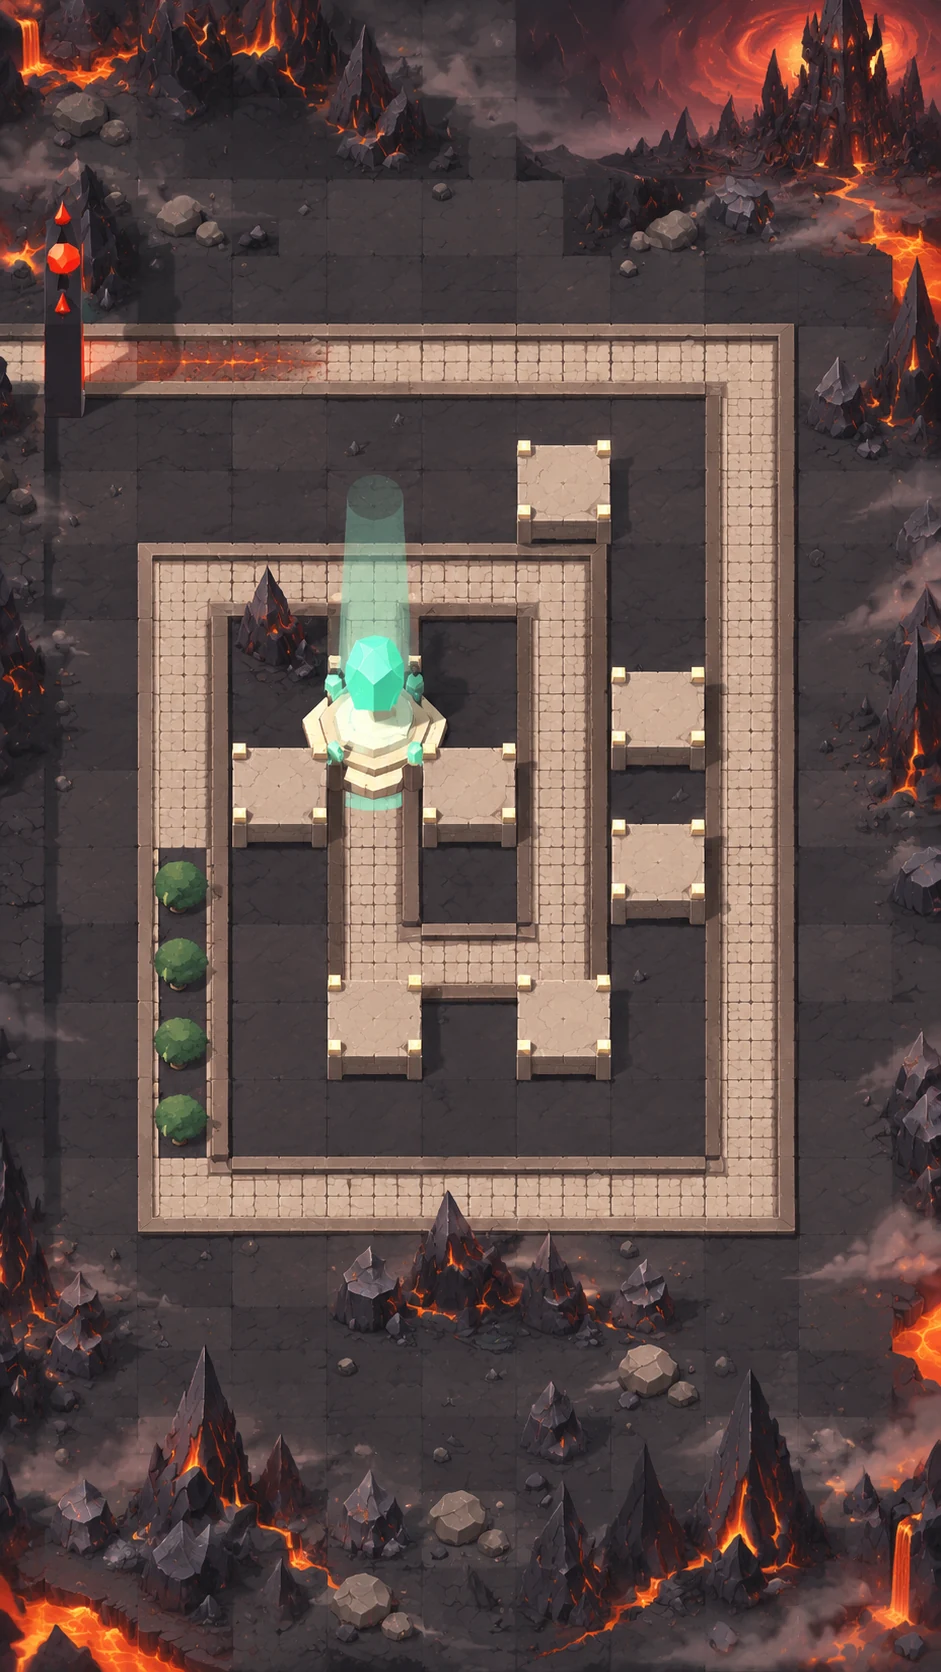
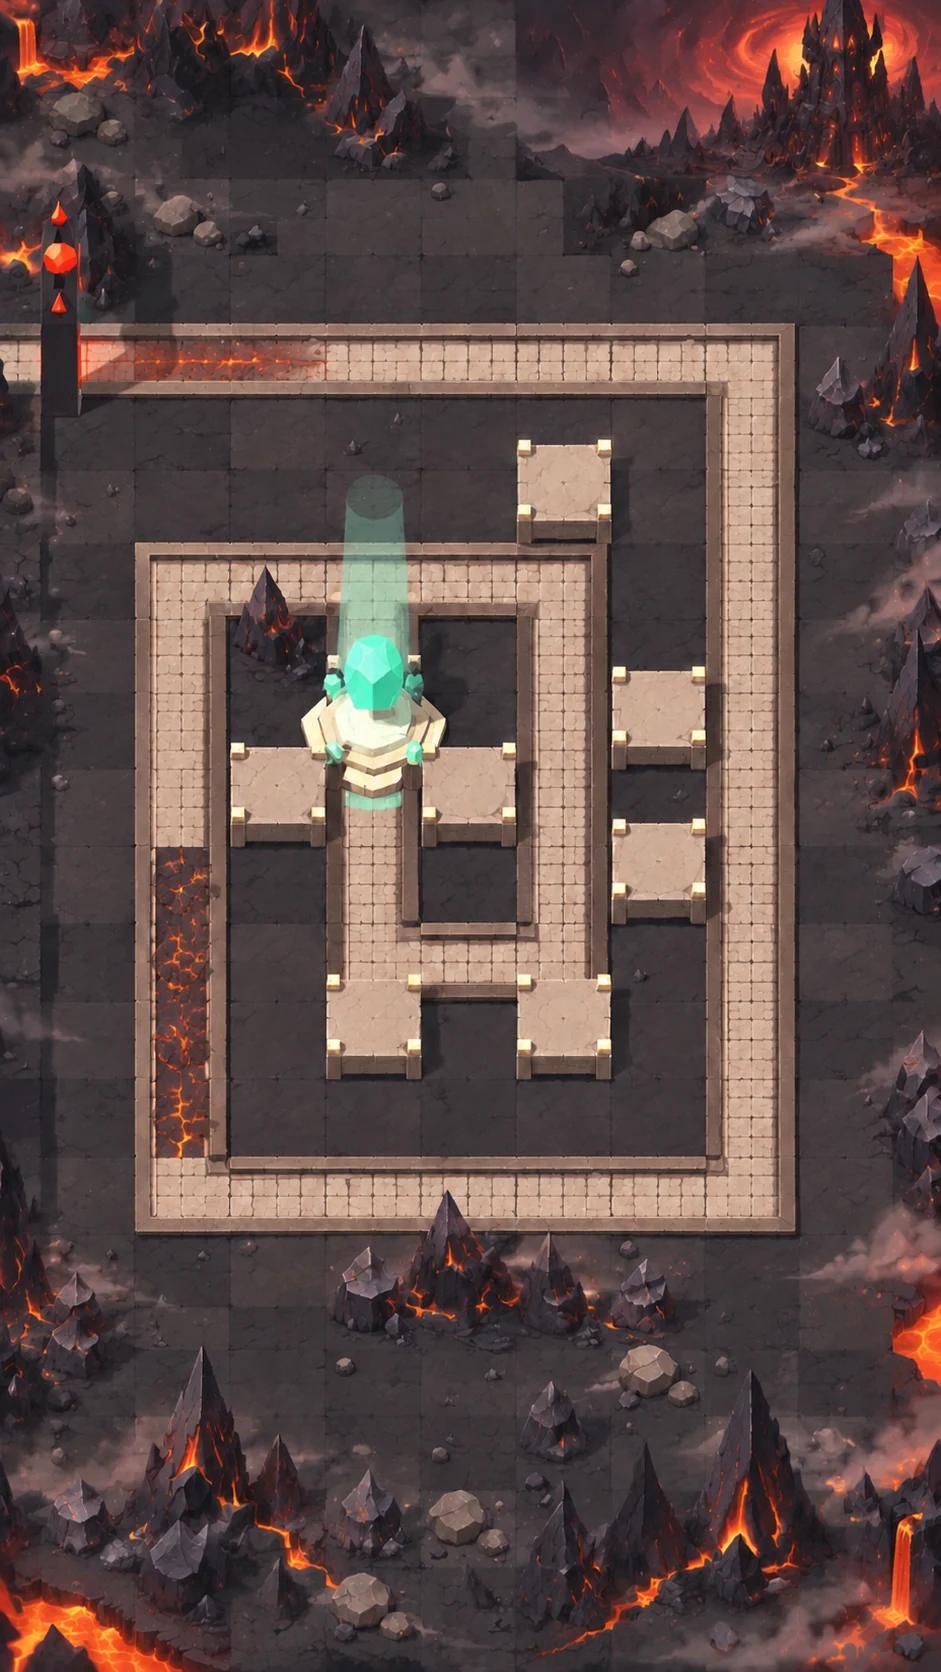
v0.6.10: chapter 7 painting with the slow stretch drawn as lava-crusted road
Claude-Session: https://claude.ai/code/session_01Gn8peP3jwhA6eefzP5AmAn

diff --git a/sw.js b/sw.js
@@ -1,6 +1,6 @@
 // cnation TD service worker: lets the game be added to the home screen and opened offline.
 // Network first, so a new deploy shows up on the next open; the cache is only a fallback. Music is cache-first (large, never changes).
-const VERSION='0.6.9',CACHE='cnation-td-'+VERSION;
+const VERSION='0.6.10',CACHE='cnation-td-'+VERSION;
 const CORE=['./','index.html','manifest.webmanifest','vendor/three-r170.js','js/data.js','js/sim.js','js/models.js','js/game.js','fonts/stylish.woff2','fonts/gowun-dodum.woff2','icons/icon-192.png','icons/icon-512.png','icons/apple-touch-icon.png','icons/favicon-64.png'];
 self.addEventListener('install',e=>{e.waitUntil(caches.open(CACHE).then(c=>c.addAll(CORE)).catch(()=>{}));self.skipWaiting();});
 self.addEventListener('activate',e=>{e.waitUntil(caches.keys().then(keys=>Promise.all(keys.filter(k=>k.startsWith('cnation-td-')&&k!==CACHE).map(k=>caches.delete(k)))).then(()=>self.clients.claim()));});

diff --git a/js/game.js b/js/game.js
@@ -2,7 +2,7 @@
 // All rules live in sim.js; this file only sends commands to it and draws what it reports.
 (function(){
 const THREE=CNATION3D,D=TDData,M=TDModels,{createSim,TERRAIN_NAME}=TDSim;
-const GAME_VERSION='0.6.9',SAVE_KEY='cnation-td-save-v2',LEGACY_KEY='cnation-td-legacy-v1',SLOT_KEY='cnation-td-slots-v1',CLEAR_KEY='cnation-td-clear-v1',SET_KEY='cnation-td-settings-v1',SLOTS=3;
+const GAME_VERSION='0.6.10',SAVE_KEY='cnation-td-save-v2',LEGACY_KEY='cnation-td-legacy-v1',SLOT_KEY='cnation-td-slots-v1',CLEAR_KEY='cnation-td-clear-v1',SET_KEY='cnation-td-settings-v1',SLOTS=3;
 const $=s=>document.querySelector(s),app=$('#app'),viewport=$('#viewport'),glc=$('#gl'),fxc=$('#fx'),ctx=fxc.getContext('2d');
 const ELEV=54*Math.PI/180,SIN=Math.sin(ELEV),COS=Math.cos(ELEV);
 const EL_COLOR={fire:'#ff8a3d',water:'#6fd0ff',ice:'#a9ecff',wind:'#a6f2c6',thunder:'#ffe66b',light:'#fff3b0',dark:'#c7a3ff'};

diff --git a/js/data.js b/js/data.js
@@ -355,7 +355,7 @@ const MAP_ART={
  city:{file:'art/city.webp',rect:[-0.0042,0.0023,0.9958,0.9929],bg:'#a5562e'},
  plain:{file:'art/plain.webp',rect:[-0.0042,-0.0164,1.0058,0.9841],bg:'#cf914a'},
  ruins:{file:'art/ruins.webp',rect:[0.0000,-0.0023,1.0000,0.9982],bg:'#314c24'},
- tower:{file:'art/tower.webp',rect:[-0.0042,-0.0258,0.9958,0.9747],bg:'#433334'}
+ tower:{file:'art/tower.webp',rect:[-0.0042,-0.0258,0.9958,0.9747],bg:'#443334'}
 };
 const TDData={MAP_ART,RANGED_INTERVAL,RANGED_POWER,MELEE_INTERVAL,MELEE_POWER,GATE_GAP:3,seeded,LEGACIES,legacyOffer,legacyCounts,typicalLegacy,MELEE_GAP:3,SKILLS,UNITS,HERO_ORDER,SOLDIER_ORDER,RANK_COST,RANK_STAT,RANK_GUARD,REFUND,WITHDRAW_CD,DOWN_CD,ENGAGE_SLOW,MONSTERS,MODEL_TRAITS,MOVE_SPEED,ELEMENT_ICON,SCENES,MAPS,CHAPTERS,BOSSES,BLESSINGS};
 if(typeof module!=='undefined'&&module.exports)module.exports=TDData;else root.TDData=TDData;

diff --git a/index.html b/index.html
@@ -131,10 +131,10 @@ html,body{margin:0;height:100%;background:#0d1a1e;color:var(--ink);font-family:v
  <div id="modal" hidden></div>
 </div>
 <script src="vendor/three-r170.js"></script>
-<script src="js/data.js?v=0.6.9"></script>
-<script src="js/sim.js?v=0.6.9"></script>
-<script src="js/models.js?v=0.6.9"></script>
-<script src="js/game.js?v=0.6.9"></script>
+<script src="js/data.js?v=0.6.10"></script>
+<script src="js/sim.js?v=0.6.10"></script>
+<script src="js/models.js?v=0.6.10"></script>
+<script src="js/game.js?v=0.6.10"></script>
 <script>if('serviceWorker' in navigator&&location.protocol!=='file:')window.addEventListener('load',()=>navigator.serviceWorker.register('sw.js').catch(()=>{}));</script>
 </body>
 </html>

diff --git a/README.md b/README.md
@@ -3,7 +3,7 @@
 cnation TACTICS(아르카 연대기)의 영웅·몬스터·지형으로 만든 세로형 모바일 디펜스 게임입니다.
 탑 대신 **동료를 전장에 세워** 길을 따라 밀려오는 몬스터를 막습니다.
 
-- 현재 버전: **ver.0.6.9 beta** — 프롤로그부터 FINAL까지 전체 10장, 영웅 6명·병사 5종·몬스터 30종·보스 10종
+- 현재 버전: **ver.0.6.10 beta** — 프롤로그부터 FINAL까지 전체 10장, 영웅 6명·병사 5종·몬스터 30종·보스 10종
 - 기획안: [`docs/GDD.md`](docs/GDD.md)
 
 ## 실행

diff --git a/docs/GDD.md b/docs/GDD.md
@@ -512,3 +512,4 @@ A안 보완책: 한 장 안에서도 **전투 4·7에서 전장이 변함** (다
 - **0.6.7** 5장(사막 오아시스) 그림 배경.
 - **0.6.8** 6장(폭포가 있는 정글 유적) 그림 배경.
 - **0.6.9** 7장(화산 지대의 검은 첨탑) 그림 배경. 맵 가운데 수정 바로 뒤 발판 1칸은 수정에 가려 보이지 않아 평지로 바꿨습니다(`MAPS.tower.noHigh`, 7장 발판 7칸, 난이도 1.18→1.12).
+- **0.6.10** 7장 그림 교체: 왼쪽 늪 구간을 덤불 대신 용암 껍질이 덮인 길로 고친 그림.
